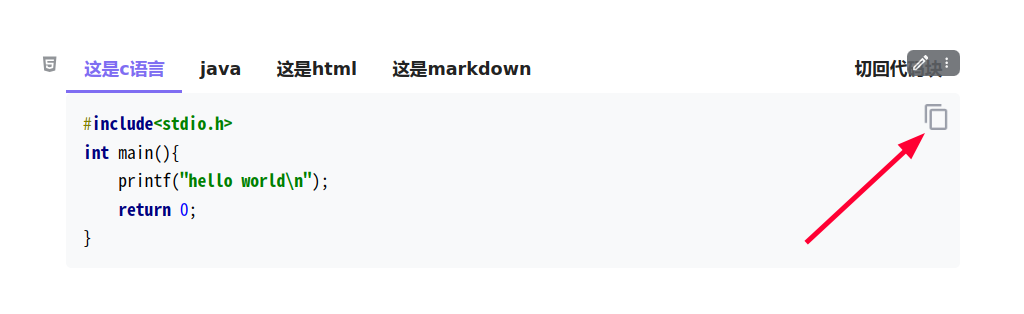
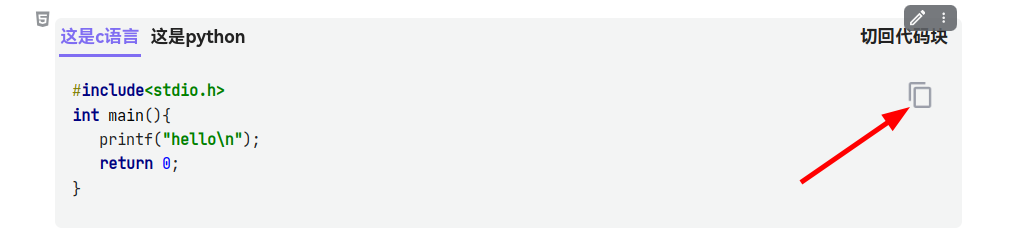
- 更新Readme - 更新版本信息

diff --git a/README.md b/README.md
@@ -1,31 +1,47 @@
-
 # Siyuan Code Tabs
 
 [中文版](./README_zh_CN.md)
+
 ## Introduction
+
 Siyuan plugin that allows you to put code in multiple languages under a set of tabs
 
 ## Known Issues
+
 - Unable to adapt to all third-party themes.
-- There must be at least one open document when changing theme or mode, otherwise the style of the code-tabs won't change with the theme, and you need to open a document and then change theme again.
-- When exporting to markdown or html, all the code-tabs styles will be lost, only when exporting pdf or image can the code-tabs be displayed normally.  
-- The style of the code-tabs may appear abnormally when updating the plugin version or switching themes, then please try the following methods: 
-  - change appearance mode
-  - change theme
-  - Close document and reopen it
-  - Try the above method again after restarting SiYuan Notes
+- There must be at least one open document when changing theme or mode, otherwise the style of the code-tabs won't
+  change with the theme, and you need to open a document and then change theme again.
+- When exporting to markdown or html, all the code-tabs styles will be lost, only when exporting pdf or image can the
+  code-tabs be displayed normally.
+- The style of the code-tabs may appear abnormally when switching themes, then please try the following methods:
+    - change appearance mode
+    - change theme
+    - Close document and reopen it
+    - Try the above method again after restarting SiYuan Notes
 - ***Only SiYuan 3.0.16 and above can be used normally***
 
 ## Tips
+
 - 3.0.14 and above need to turn on `Allow execution of scripts within HTML blocks` in Settings -> Editor.
-- Since version 0.3.0, all functions have basically achieved the expected goals (temporarily not considering the implementation of the `Code block line number`). Future updates will mainly focus on bug fixes and style optimizations.
-- After updating the plugin, if there is a display exception, you can use `Plugins -> Fix all code-tabs in opened documents` to fix it.
+- Since version 0.3.0, all functions have basically achieved the expected goals (temporarily not considering the
+  implementation of the `Code block line number`). Future updates will mainly focus on bug fixes and style
+  optimizations.
+- **After updating the plugin, if there is a display exception, you can
+  use `Plugins -> Fix all code-tabs in opened documents` to fix it. If you still have problems, try regenerating the
+  code-tabs after `toggle to code-block`**
 
 ## Example
-1. Insert a code block in the SiYuan document as follows. Enter the title after `tab:::`, and then add `:::active` to indicate that this tab is activated by default when the document is opened. If this flag(`:::active`) is not added, the first tab is activated by default. Enter the language after `lang:::`. If "lang:::language" is omitted, the title is used as the default language for the code. [Example file](./asset/example.md)
-   - When the language is `markdown`, [marked](https://github.com/markedjs/marked) will be used for rendering. Rendering [Katex formulas](https://katex.org) with [marked-katex-extension](https://github.com/UziTech/marked-katex-extension), Rendering code blocks with [marked-highlight](https://github.com/markedjs/marked-highlight).
+
+1. Insert a code block in the SiYuan document as follows. Enter the title after `tab:::`, and then add `:::active` to
+   indicate that this tab is activated by default when the document is opened. If this flag(`:::active`) is not added,
+   the first tab is activated by default. Enter the language after `lang:::`. If "lang:::language" is omitted, the title
+   is used as the default language for the code. [Example file](./asset/example.md)
+    - When the language is `markdown`, [marked](https://github.com/markedjs/marked) will be used for rendering.
+      Rendering [Katex formulas](https://katex.org)
+      with [marked-katex-extension](https://github.com/UziTech/marked-katex-extension), Rendering code blocks
+      with [marked-highlight](https://github.com/markedjs/marked-highlight).
    ```
-   tab:::this is c:::active
+   tab:::this is c
    lang:::c
    #include<stdio.h>
    int main(){
@@ -33,45 +49,63 @@ Siyuan plugin that allows you to put code in multiple languages under a set of t
    return 0;
    }
    
-   tab:::this is python
-   lang:::python
+   tab:::python:::active
    def hello_world():
    print("Hello World")
    ```
 
-2. Click the block menu in the upper-left corner of the code-block -> Plugin -> Convert code-block to tabs, you can also set a shortcut key for this function in Settings -> Keymap.
-   ![fig2-1](./asset/2-1.png)
-   ![fig2-2](./asset/2-2.png)
-   ![fig2-3](./asset/2-3.png)
+2. Click the block menu in the upper-left corner of the code-block -> Plugin -> Convert code-block to tabs, you can also
+   set a shortcut key for this function in Settings -> Keymap.
+   ![fig2](./asset/2.gif)
 
-3. If you need to edit the code, you can click on "Toggle to code-block" in the upper-right corner of the tab. After editing, convert the code block back to code-tabs again.
+3. If you need to edit the code, you can click on "Toggle to code-block" in the upper-right corner of the tab. After
+   editing, convert the code block back to code-tabs again.
    ![fig3](./asset/3.png)
 4. You can copy the code in one click by clicking the copy button in the upper right corner(Copy plaintext only).  
    ![fig4](./asset/4.png)
+5. If there are too many tabs, some of the tabs will be hidden, in the desktop application, you can put the mouse cursor
+   on the tabs bar and use the mouse wheel to scroll through them, and in the mobile application, you can slide the tabs
+   bar left and right to view them.
+6. Demo.  
+   ![fig5](./asset/demo.gif)
 
 ## Comment
-- Essentially, this plugin was written with the help of Wenxin Yiyan  and ChatGPT.  
+
+- Essentially, this plugin was written with the help of Wenxin Yiyan and ChatGPT.
 - This plugin was developed following the example of [obsidian-code-tab](https://github.com/lazyloong/obsidian-code-tab)
 - The version of SiYuan Notes at the time of testing: 3.1.13
 
 ## Changelog
+
+### v0.6.0
+
+- Copy button can now copy markdown
+- Swipe left or right to view tags when there are too many tags on mobile.
+- Fixed the problem that the copy button doesn't work when using docker.
+- Optimize tag style
+
 ### v0.5.0
+
 - Optimize the display effect and adapt more themes
 - Fix display anomalies when using docker that may be caused by CORS issues
 - Fix padding being too small
 
 ### v0.4.2
+
 - Support for docker.
 
 ### v0.4.1
+
 - The plugin checks if the Allow execution of scripts within HTML blocks is turned on when it loads.
 
 ### v0.4.0
+
 - Fix the problem of escaping pointed brackets.
 - Limit the length of tab title and add horizontal scroll bar automatically when there are too many tabs.
 - Adjust the font size of plaintext and code blocks in markdown.
 
 ### v0.3.0
+
 - Optimize CSS display effects.
 - Adapt the code-tabs to support more themes.
 - Now you can specify the default active tab when the document is opened.

diff --git a/README_zh_CN.md b/README_zh_CN.md
@@ -1,29 +1,37 @@
-
 # Siyuan Code Tabs
 
 [English](./README.md)
+
 ## 简介
+
 这个思源插件允许你将多种语言的代码放在一组标签页下
 
 ## 已知问题
-- 无法适配所有第三方主题
+
+- 不保证适配所有第三方主题
 - 切换主题或模式时至少要有一个打开着的文档，否则标签页样式不会随主题改变，需要打开一个文档后再次切换主题
 - 导出为markdown或html等格式时所有标签页样式会丢失，只有导出pdf或图片时标签页才能正常显示
-- 更新插件版本或切换主题时代码标签页的样式可能会出现异常，这时请尝试以下方法：
-  - 切换外观模式
-  - 切换主题
-  - 关闭已打开的文档再重新打开
-  - 重启思源笔记后再次尝试以上方法
+- 更换主题时代码标签页的样式可能会出现异常，这时请尝试以下方法：
+    - 切换外观模式
+    - 切换主题
+    - 关闭已打开的文档再重新打开
+    - 重启思源笔记后再次尝试以上方法
 - ***目前仅3.0.16及以上版本可正常使用***
 
 ## 提示
+
 - 思源3.0.14及以上版本需要在 设置 -> 编辑器 中打开 `允许执行HTML块内脚本`
 - 从0.3.0版本开始各项功能已基本实现预期(暂时不考虑实现显示行号功能)，之后的更新将主要以修复bug和优化样式为主
-- 更新插件后如果出现显示异常，可以用 插件 -> 修复已打开文档中所有代码标签页 进行修复
+- **更新插件后如果出现显示异常，可以用 插件 -> 修复已打开文档中所有代码标签页 进行修复，如果仍有问题，可尝试切回代码块后重新生成代码标签页**
 
 ## 使用示例
-1. 先在思源文档中插入一个代码块，形式如下。在`tab:::`后输入标题，之后再跟上`:::active`表示打开文档时默认激活这个标签，若没有添加该标志则默认激活第一个标签。之后再输入`lang:::语言`，其中`lang:::语言`省略不写时默认将标题作为代码的语言类型。[示例文件](./asset/example.md)  
-   - 语言类型为`markdown`时会使用[marked](https://github.com/markedjs/marked)进行渲染，使用[marked-katex-extension](https://github.com/UziTech/marked-katex-extension)渲染[Katex](https://katex.org/)公式，使用[marked-highlight](https://github.com/markedjs/marked-highlight)渲染代码块。
+
+1. 先在思源文档中插入一个代码块，形式如下。在`tab:::`后输入标题，之后再跟上`:::active`
+   表示打开文档时默认激活这个标签，若没有添加该标志则默认激活第一个标签。之后再输入`lang:::语言`，其中`lang:::语言`
+   省略不写时默认将标题作为代码的语言类型。[示例文件](./asset/example.md)
+    - 语言类型为`markdown`时会使用[marked](https://github.com/markedjs/marked)
+      进行渲染，使用[marked-katex-extension](https://github.com/UziTech/marked-katex-extension)
+      渲染[Katex](https://katex.org/)公式，使用[marked-highlight](https://github.com/markedjs/marked-highlight)渲染代码块。
    ```
    tab:::这是c语言:::active
    lang:::c
@@ -33,44 +41,58 @@
       return 0;
    }
    
-   tab:::这是python
-   lang:::python
+   tab:::python
    def hello_world():
       print("Hello World")
    ```
-2. 鼠标点击 代码块左上角的块菜单 -> 插件 -> 将代码块转换为标签页，你也可以在 设置 -> 快捷键 中为该功能设置一个快捷键。转换后效果如下  
-   ![图2-1](./asset/2-1.png)
-   ![图2-2](./asset/2-2.png)
-   ![图2-3](./asset/2-3.png)
+2. 鼠标点击 代码块左上角的块菜单 -> 插件 -> 将代码块转换为标签页，你也可以在 设置 -> 快捷键
+   中为该功能设置一个快捷键。转换后效果如下  
+   ![图2](./asset/2.gif)
 3. 若需要编辑代码，可点击标签页右上角的 **切回代码块**，编辑完成之后再次将代码块转换为标签页即可
    ![图3](./asset/3.png)
-4. 可以点击右上角的复制按钮一键复制代码(只会复制纯文本)  
+4. 可以点击右上角的复制按钮一键复制代码  
    ![图4](./asset/4.png)
-5. 标签页过多时一部分标签会被隐藏，可以将鼠标光标放在标签栏上使用鼠标滚轮滚动查看
+5. 标签过多时一部分标签会被隐藏，桌面端可以将鼠标光标放在标签栏上使用鼠标滚轮滚动查看，移动端可以左右滑动标签栏查看
+6. 效果演示  
+   ![图5](./asset/demo.gif)
 
 ## 备注
+
 - 这个插件基本上是在文心一言和ChatGPT的帮助下写出来的
 - 这个插件是仿照[obsidian-code-tab](https://github.com/lazyloong/obsidian-code-tab)写的
 - 测试时的思源版本：3.1.13
 
 ## 更新日志
+
+### v0.6.0
+
+- 现在复制按钮可以复制markdown了
+- 移动端标签过多时可以左右滑动查看标签了
+- 修复使用docker时复制按钮不生效的问题
+- 优化标签样式
+
 ### v0.5.0
+
 - 优化样式及显示效果，适配更多主题
 - 修复在使用docker时可能因CORS问题导致的代码样式异常的问题
 - 修复在某些版本中标签页内代码边距太小的问题
 
 ### v0.4.2
+
 - 支持在docker中运行插件
 
 ### v0.4.1
+
 - 加载插件时会检查是否打开了允许执行HTML块内脚本选项
 
 ### v0.4.0
+
 - 修复尖括号转义问题
 - 限制标签标题长度，标签过多时自动添加水平滚动条
 - 调整纯文本和markdown中代码块的字体大小
 
 ### v0.3.0
+
 - 优化显示效果
 - 让标签页适配更多主题
 - 现在可以指定打开文档时默认激活的标签了

diff --git a/asset/example.md b/asset/example.md
@@ -3,34 +3,33 @@ tab:::这是c语言
 lang:::c
 #include<stdio.h>
 int main(){
-    printf("hello world\n");
+   printf("hello\n");
+   return 0;
+}
+
+tab:::这是c++
+lang:::cpp
+#include <iostream>
+using namespace std;
+int main()
+{
+    cout << "Hello, world!" << endl;
     return 0;
 }
 
-tab:::java
+tab:::python
+def hello_world():
+   print("Hello World")
+
+tab:::这是java
+lang:::java
 public class HelloWorld {
     public static void main(String[] args) {
         System.out.println("Hello World");
     }
 }
 
-tab:::python:::active
-def hello_world():
-    print("Hello World")
-
-tab:::这是html
-lang:::html
-<html>
-    <head>
-        <title>test</title>
-    </head>
-    <body>
-        <h1> this is a test </h1>
-    </body>
-</html>
-
-tab:::这是markdown
-lang:::markdown
+tab:::markdown:::active
 # 标题1
 ## 标题2 
 这是**粗体**，这是*斜体*，这是行内代码`code`， 这是行内公式 $a=\sqrt{b^2+c^2}$，这是~~删除线~~，这是[链接](https://github.com)。  
@@ -60,4 +59,62 @@ int main(){
     return 0;
 }
 ``` 
+
+tab:::这是go
+lang:::go
+package main
+
+import "fmt"
+
+func main() {
+    fmt.Println("Hello, World!")
+}
+
+tab:::这是c#
+lang:::c#
+using System;
+namespace HelloWorldApplication
+{
+    class HelloWorld
+    {
+        static void Main(string[] args)
+        {
+            Console.WriteLine("Hello World!");
+            Console.ReadKey();
+        }
+    }
+}
+
+tab:::rust
+fn main() {
+    println!("Hello World!");
+}
+
+tab:::typescript
+function greeter(person) {
+    return "Hello, " + person;
+}
+
+let user = "Jane User";
+
+document.body.innerHTML = greeter(user);
+
+tab:::fortran
+program hello
+  ! This is a comment line; it is ignored by the compiler
+  print *, 'Hello, World!'
+end program hello
+
+tab:::这是php
+lang:::php
+<!DOCTYPE html>
+<html>
+<body>
+
+<?php
+echo "Hello World!";
+?>
+
+</body>
+</html>
 ``````
